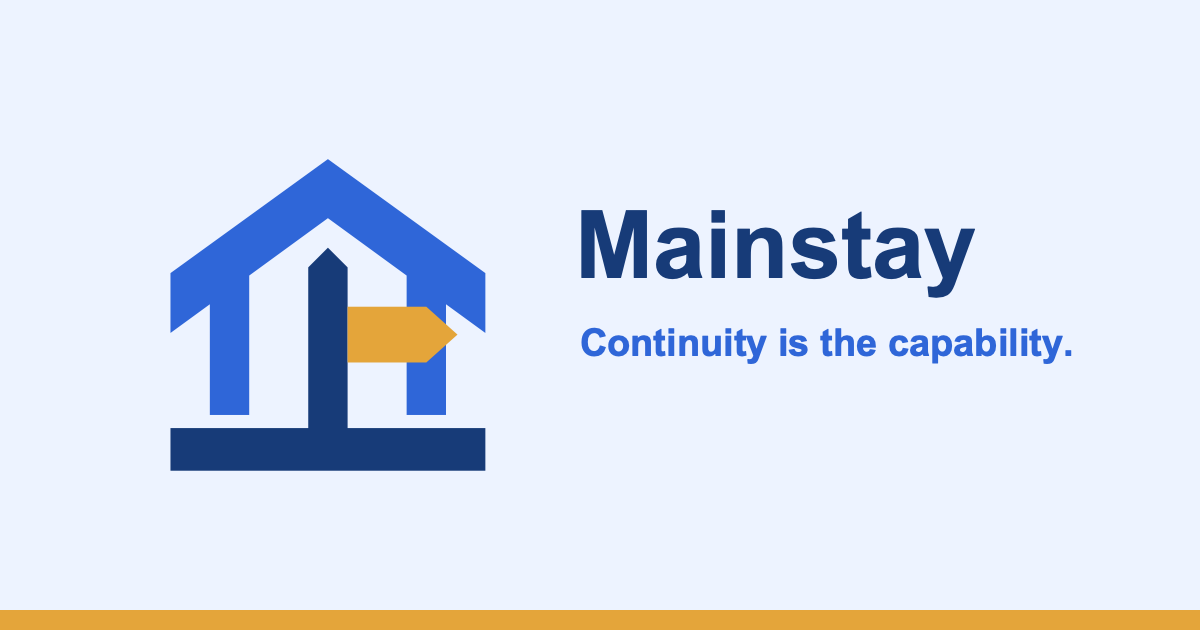
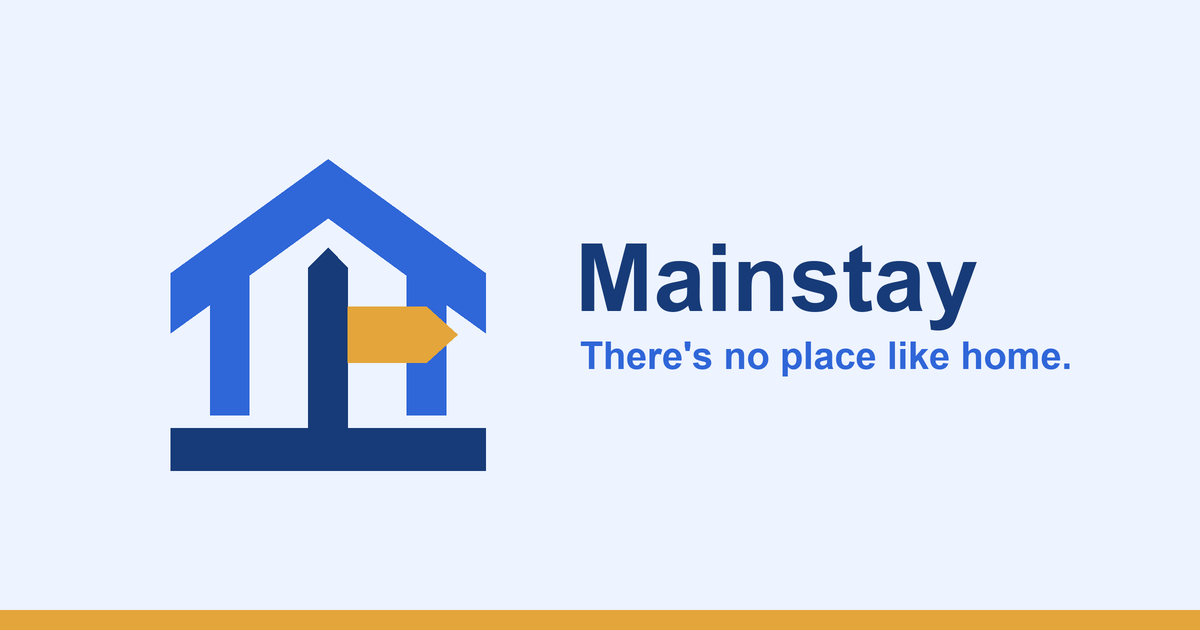
Update Mainstay tagline and social preview

Changed region(s): [[0.4625, 0.3317, 0.8942, 0.6032]]

diff --git a/overrides/main.html b/overrides/main.html
@@ -13,7 +13,7 @@
   <meta property="og:image" content="{{ config.site_url }}assets/mainstay-social.png">
   <meta property="og:image:width" content="1200">
   <meta property="og:image:height" content="630">
-  <meta property="og:image:alt" content="Mainstay logo">
+  <meta property="og:image:alt" content="Mainstay logo with the words There's no place like home.">
   <meta name="twitter:card" content="summary_large_image">
   <meta name="twitter:title" content="{{ social_title }}">
   <meta name="twitter:description" content="{{ social_description }}">

diff --git a/website/index.md b/website/index.md
@@ -1,6 +1,6 @@
 ---
 title: Mainstay
-description: A local-first application for keys, records, payments, and community continuity.
+description: There's no place like home. Mainstay is a local-first application for keys, records, payments, and community continuity.
 ---
 
 <section class="mainstay-hero" markdown>
@@ -9,7 +9,7 @@ description: A local-first application for keys, records, payments, and communit
 
 # Mainstay
 
-<p class="mainstay-tagline">A dependable place for keys, records, payments, and community continuity.</p>
+<p class="mainstay-tagline">There's no place like home.</p>
 
 <p class="mainstay-intro">A unified local-first application that keeps essential information and value available and usable when conditions change.</p>
 
@@ -20,7 +20,7 @@ description: A local-first application for keys, records, payments, and communit
 
 <div class="mainstay-formula" markdown>
 
-**Continuity is the capability.**
+**A dependable place for keys, records, payments, and community continuity.**
 
 </div>
 

diff --git a/website/product-vision.md b/website/product-vision.md
@@ -50,13 +50,14 @@ or synchronization protocols to know what is available and what to do next.
 ```text
 Mainstay is the application.
 Lockbox is the appliance.
-Continuity is the capability.
+There's no place like home.
 ```
 
 Mainstay is the primary user entry point. Lockbox is the preferred integrated
 deployment when durable local operation, appliance simplicity, and
-hardware-backed controls matter. Continuity is the shared capability across
-keys, records, storage, events, and payments.
+hardware-backed controls matter. Continuity is the shared result across keys,
+records, storage, events, and payments: the important things remain close
+enough to use.
 
 ## What Mainstay does not become
 

diff --git a/README.md b/README.md
@@ -5,8 +5,8 @@ payments, and community resource coordination. It brings the Safebox, Acorn,
 Stroma, Grove, Spurline, and Clear product family into one coherent experience across
 connected and disrupted conditions.
 
-Mainstay is the application. Lockbox is the appliance. Continuity is the
-capability.
+Mainstay is the application. Lockbox is the appliance. There's no place like
+home.
 
 ## Documentation
 
